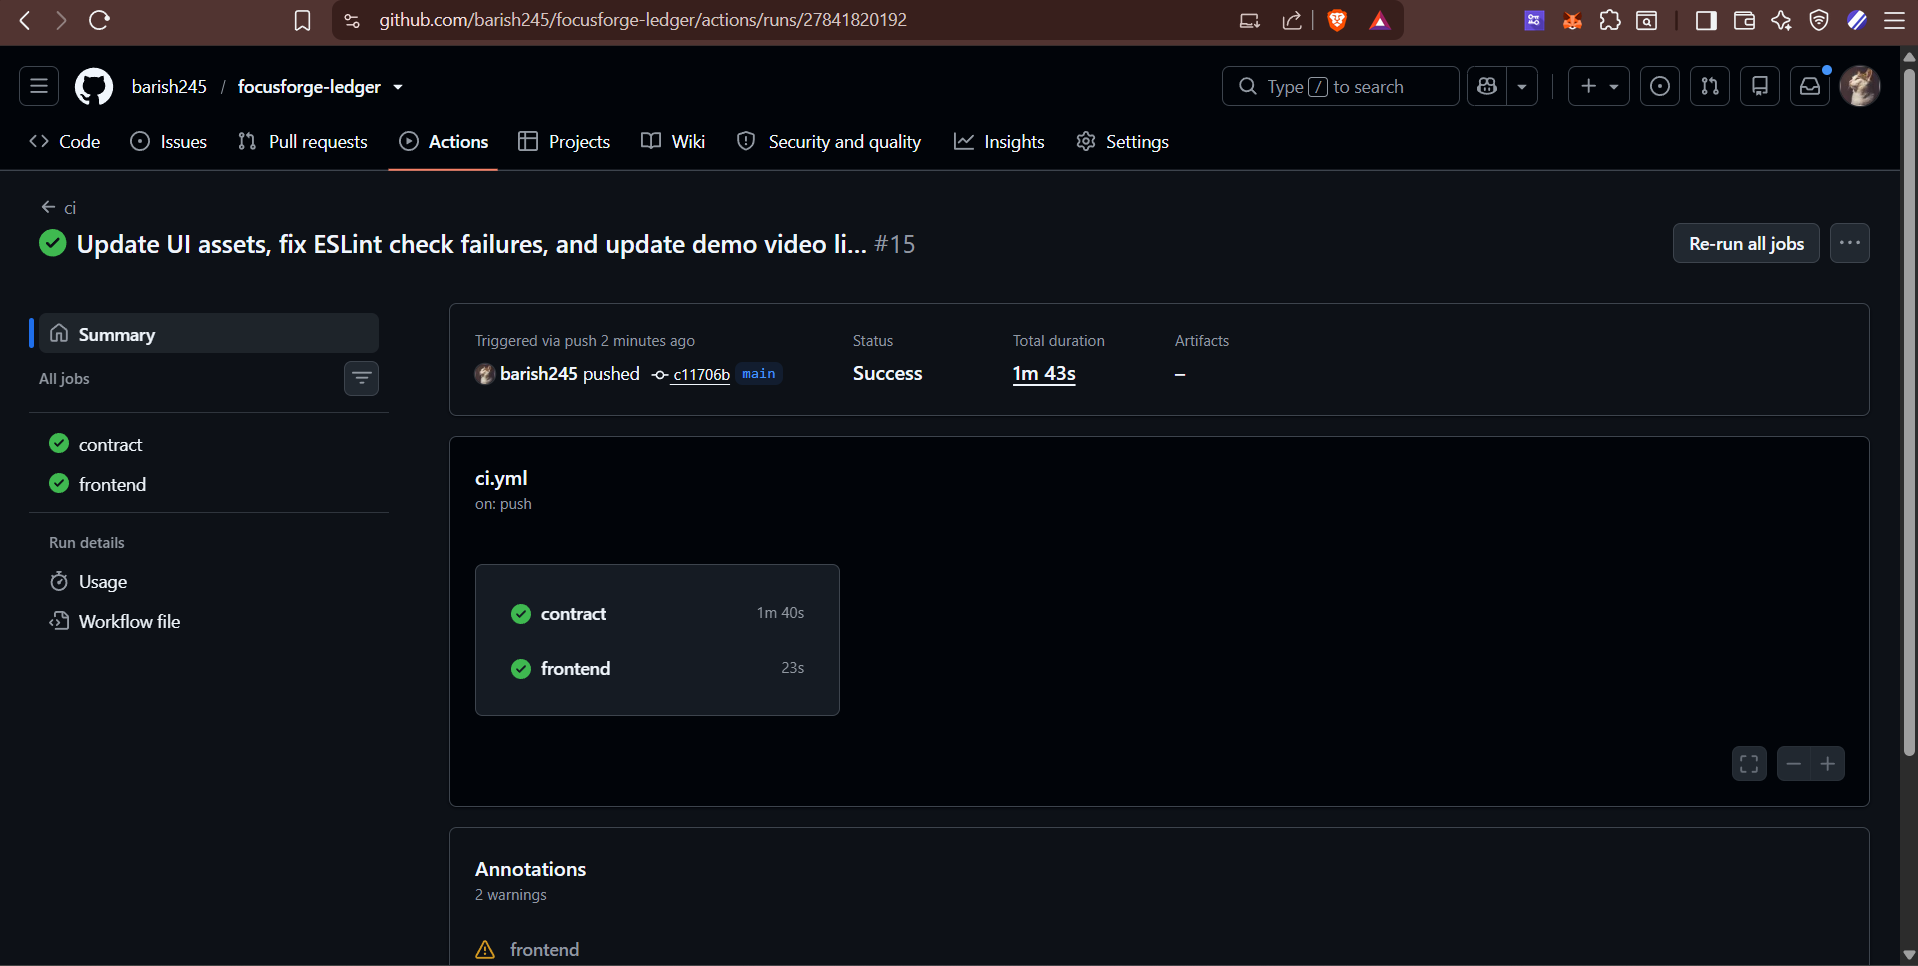
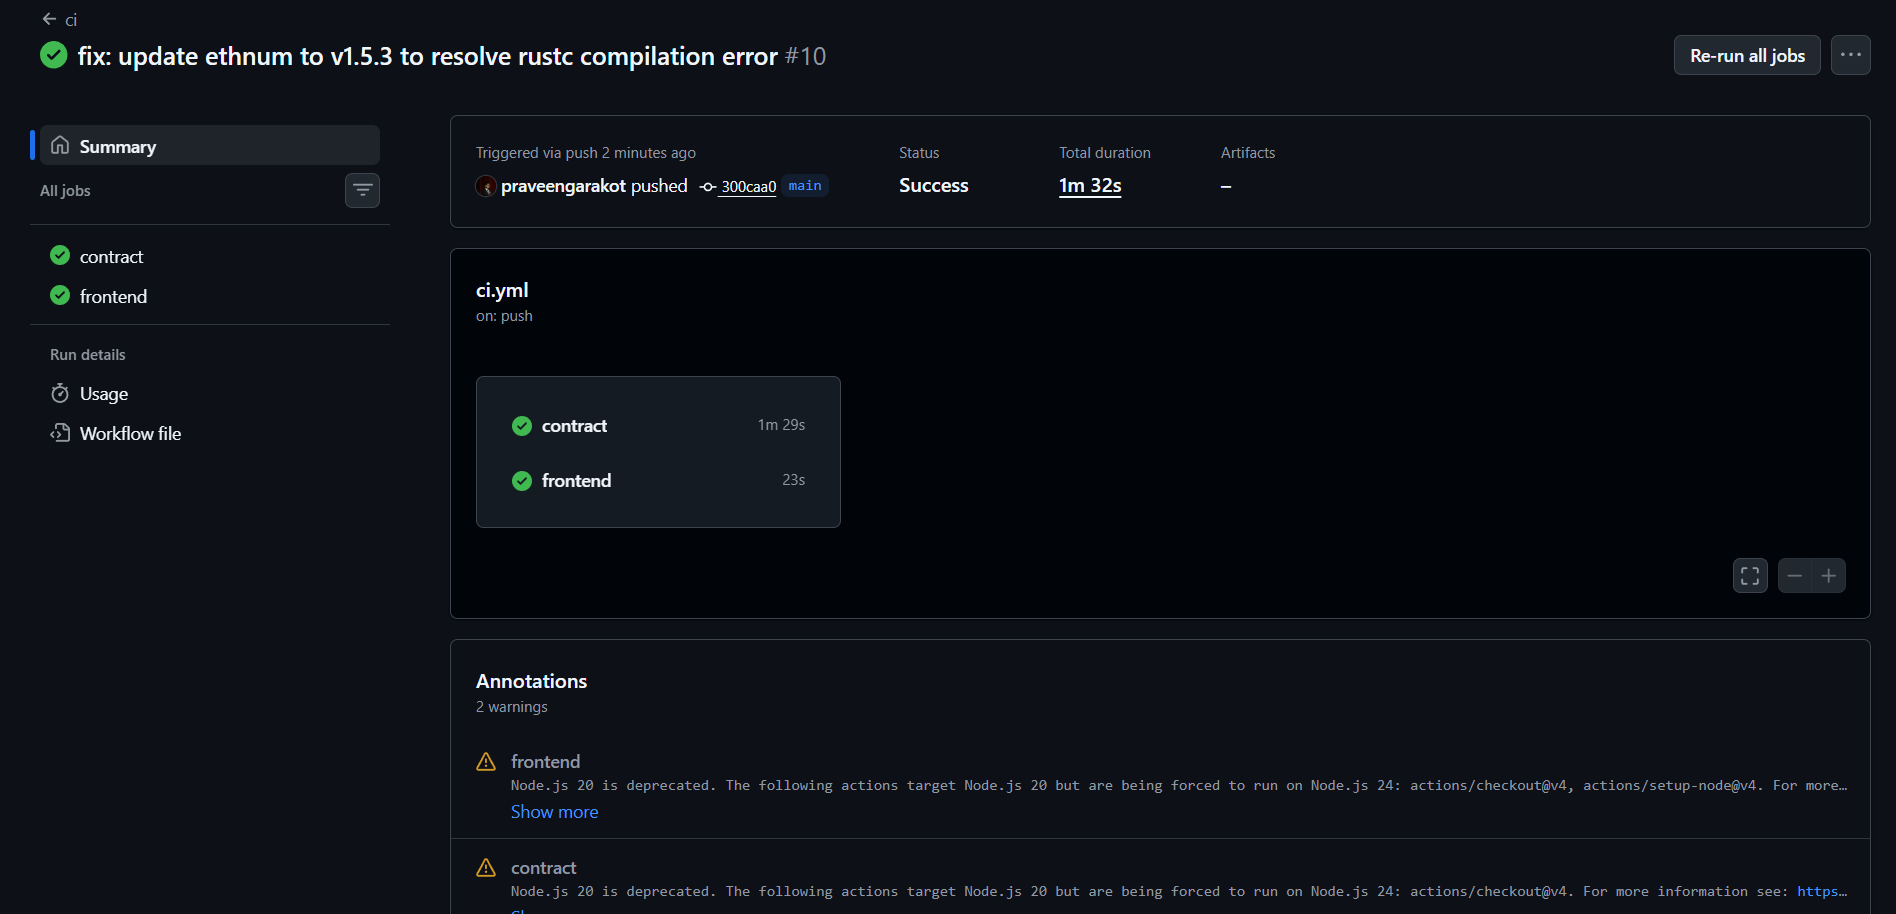
refactor: reorganize submission assets and update CI/CD diagram path in README

diff --git a/README.md b/README.md
@@ -193,7 +193,7 @@ Handles dispute records and resolves payout distributions.
 ### CI/CD Pipeline
 
 <p align="center">
-  <img src="SUBMISSION%20ASSETS/cicd.png" width="800" alt="TrustEscrow CI/CD Pipeline" />
+  <img src="assets/cicd.png" width="800" alt="TrustEscrow CI/CD Pipeline" />
 </p>
 
 ---